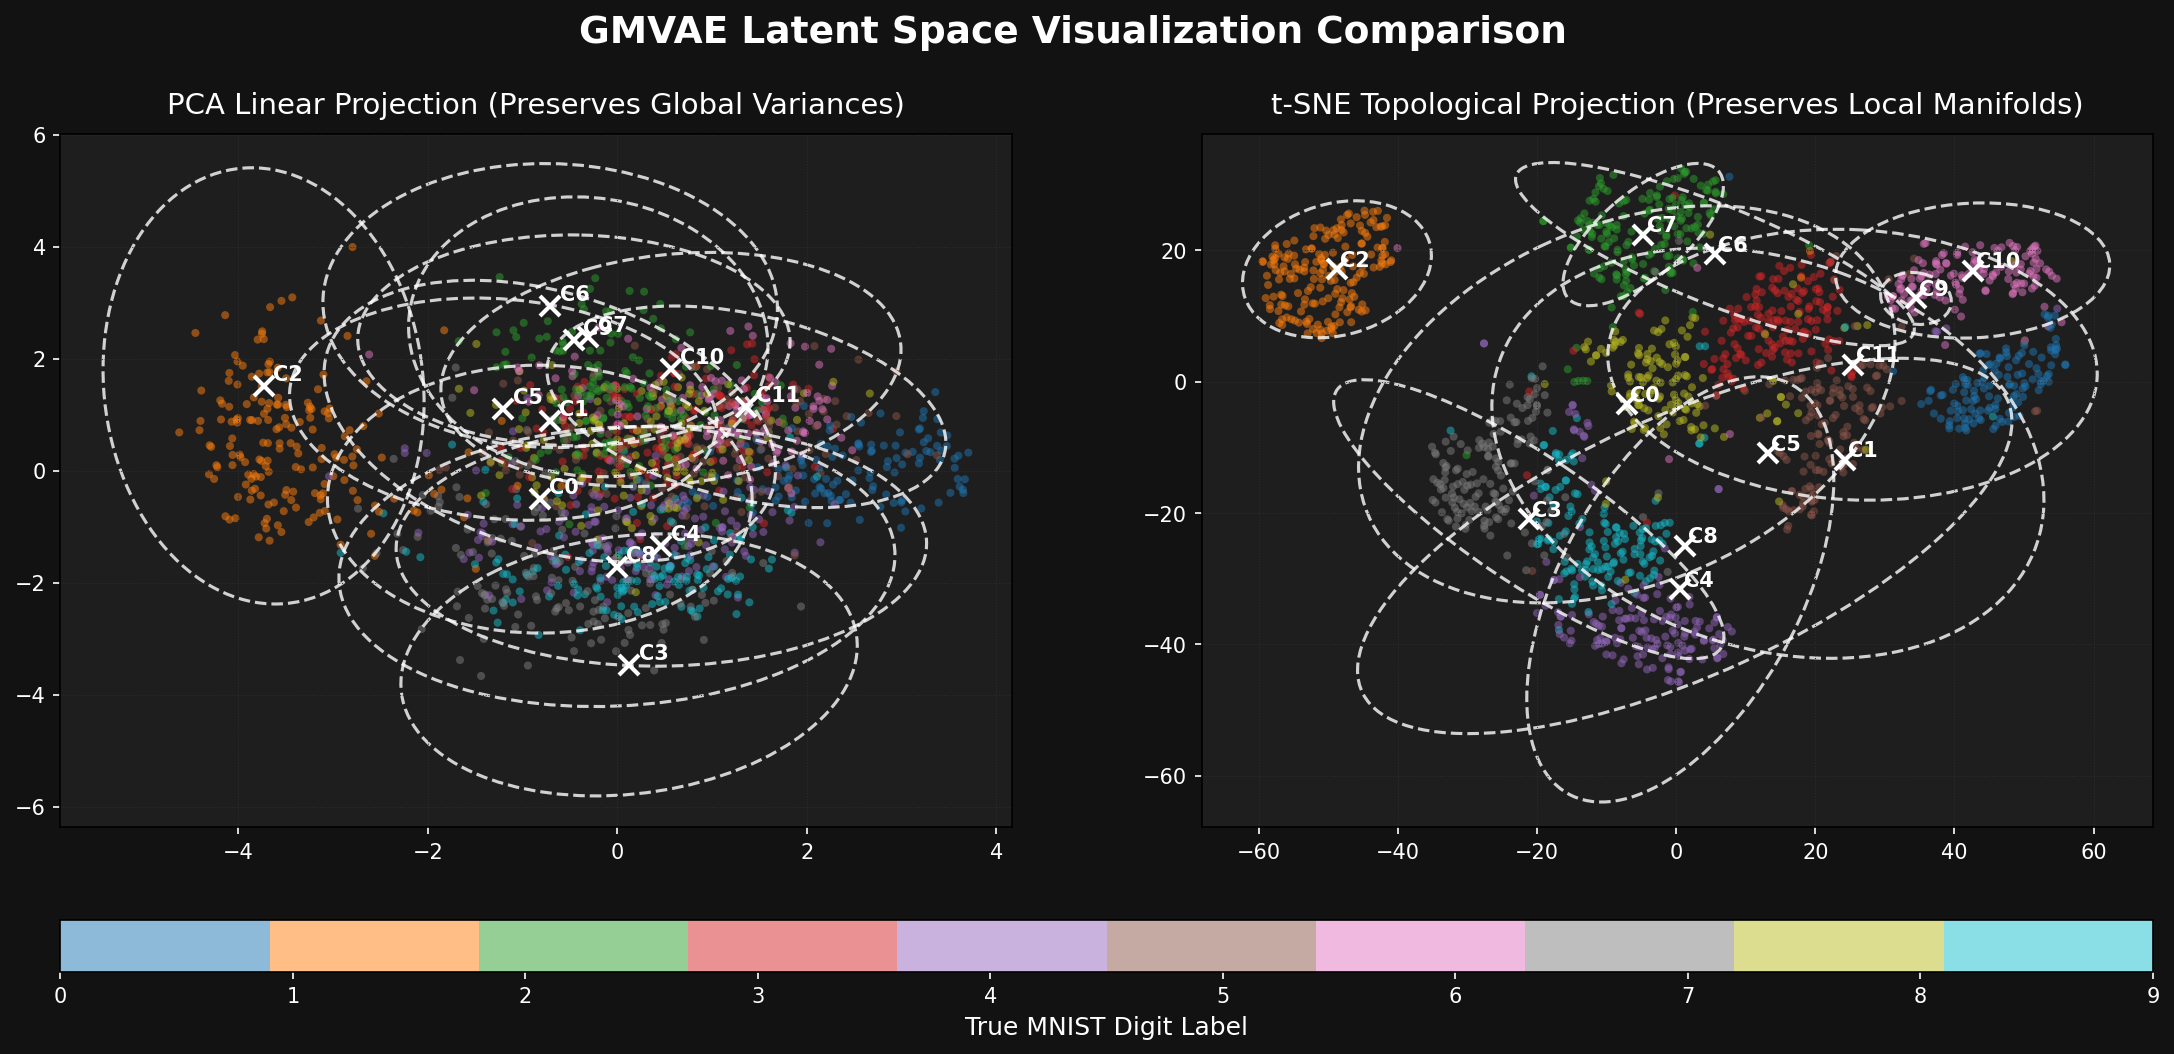
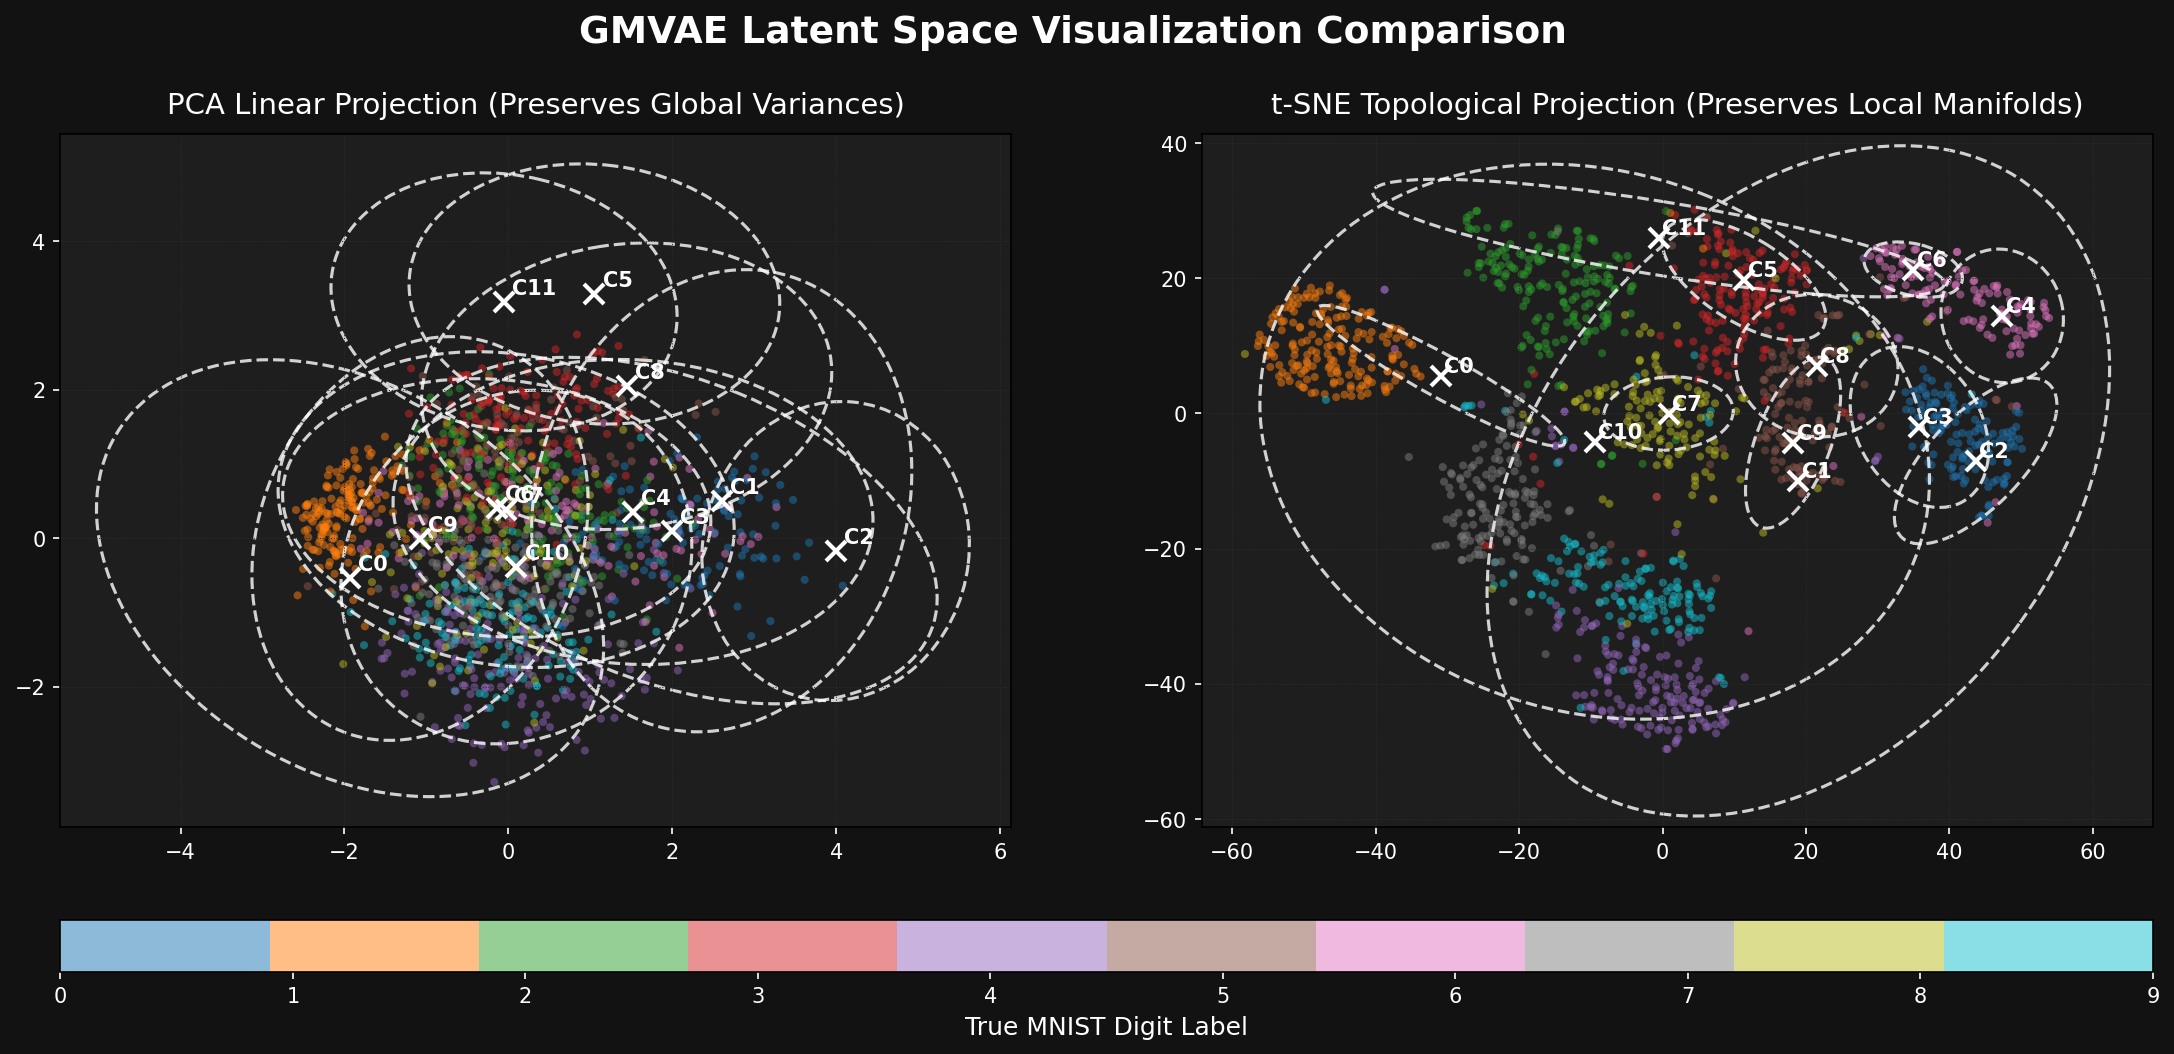
fix: all cluster labels shown in t-SNE plot, handle single-point clusters

diff --git a/animate_training.py b/animate_training.py
@@ -155,18 +155,27 @@ def get_plot_frame(model, test_loader, device, step, epoch, val_loss, allow_spaw
     scatter = ax.scatter(z_pts_2d[:, 0], z_pts_2d[:, 1], c=labels, cmap='tab10', s=5, alpha=0.5, edgecolors='none')
     
     # Draw GMM ellipses using empirical covariance of projected points in 2D
+    emp_means_list = {}
     for k in range(len(means)):
-        ax.plot(means_2d[k, 0], means_2d[k, 1], 'x', color='white', markersize=8, markeredgewidth=2)
-        
         cluster_points = z_pts_2d[predicted_clusters == k]
-        if len(cluster_points) > 1:
-            emp_mean = np.mean(cluster_points, axis=0)
-            emp_cov = np.cov(cluster_points.T)
-            eigenvalues, eigenvectors = np.linalg.eigh(emp_cov)
-            order = eigenvalues.argsort()[::-1]
-            eigenvalues, eigenvectors = eigenvalues[order], eigenvectors[:, order]
-            angle = np.degrees(np.arctan2(*eigenvectors[:, 0][::-1]))
-            width, height = 4 * np.sqrt(np.clip(eigenvalues, a_min=1e-8, a_max=None))
+        if len(cluster_points) >= 1:
+            if len(cluster_points) > 1:
+                emp_mean = np.mean(cluster_points, axis=0)
+                emp_means_list[k] = emp_mean
+                emp_cov = np.cov(cluster_points.T)
+                eigenvalues, eigenvectors = np.linalg.eigh(emp_cov)
+                order = eigenvalues.argsort()[::-1]
+                eigenvalues, eigenvectors = eigenvalues[order], eigenvectors[:, order]
+                angle = np.degrees(np.arctan2(*eigenvectors[:, 0][::-1]))
+                width, height = 4 * np.sqrt(np.clip(eigenvalues, a_min=1e-8, a_max=None))
+            else:
+                emp_mean = cluster_points[0]
+                emp_means_list[k] = emp_mean
+                angle = 0
+                width, height = 0.5, 0.5
+            
+            # Plot centroid marker at emp_mean
+            ax.plot(emp_mean[0], emp_mean[1], 'x', color='white', markersize=8, markeredgewidth=2)
             
             ellipse = Ellipse(
                 xy=(emp_mean[0], emp_mean[1]),
@@ -180,6 +189,9 @@ def get_plot_frame(model, test_loader, device, step, epoch, val_loss, allow_spaw
                 alpha=0.7
             )
             ax.add_patch(ellipse)
+        else:
+            emp_means_list[k] = means_2d[k]
+            ax.plot(means_2d[k, 0], means_2d[k, 1], 'x', color='white', markersize=8, markeredgewidth=2)
 
     # Decode and overlay digit predictions right above the GMM cluster centers!
     with torch.no_grad():
@@ -197,9 +209,12 @@ def get_plot_frame(model, test_loader, device, step, epoch, val_loss, allow_spaw
             rgba[:, :, 2] = 0.1  # Blue
             rgba[:, :, 3] = digit_img  # Alpha is pixel intensity
             
+            # Get empirical mean coordinates for this cluster
+            emp_mean = emp_means_list.get(k, means_2d[k])
+            
             im = OffsetImage(rgba, zoom=0.7)
-            # Offset the floating digit slightly above the center marker (means_2d[k, 1] + 0.5)
-            ab = AnnotationBbox(im, (means_2d[k, 0], means_2d[k, 1] + 0.5), xycoords='data', frameon=False)
+            # Offset the floating digit slightly above the center marker (emp_mean[1] + 0.5)
+            ab = AnnotationBbox(im, (emp_mean[0], emp_mean[1] + 0.5), xycoords='data', frameon=False)
             ax.add_artist(ab)
             
     status_str = "Spawning: Active" if allow_spawning else "Spawning: Frozen"

diff --git a/visualize_tsne.py b/visualize_tsne.py
@@ -134,21 +134,25 @@ def main():
     for k in range(best_K):
         # Calculate empirical 2D covariance of mapped points assigned to cluster k
         cluster_points = z_tsne[predicted_clusters == k]
-        if len(cluster_points) > 1:
-            # Empirical 2D mean and covariance
-            emp_mean = np.mean(cluster_points, axis=0)
-            emp_cov = np.cov(cluster_points.T)
-            
+        if len(cluster_points) >= 1:
+            if len(cluster_points) > 1:
+                emp_mean = np.mean(cluster_points, axis=0)
+                emp_cov = np.cov(cluster_points.T)
+                
+                # Eigendecomposition of empirical 2D covariance
+                eigenvalues, eigenvectors = np.linalg.eigh(emp_cov)
+                order = eigenvalues.argsort()[::-1]
+                eigenvalues, eigenvectors = eigenvalues[order], eigenvectors[:, order]
+                angle = np.degrees(np.arctan2(*eigenvectors[:, 0][::-1]))
+                width, height = 4 * np.sqrt(np.clip(eigenvalues, a_min=1e-8, a_max=None))
+            else:
+                emp_mean = cluster_points[0]
+                angle = 0
+                width, height = 0.5, 0.5
+                
             # Plot centroid marker and text at emp_mean
             ax2.plot(emp_mean[0], emp_mean[1], 'x', color='white', markersize=10, markeredgewidth=2)
             ax2.text(emp_mean[0] + 0.5, emp_mean[1] + 0.5, f"C{k}", color='white', fontsize=10, fontweight='bold')
-            
-            # Eigendecomposition of empirical 2D covariance
-            eigenvalues, eigenvectors = np.linalg.eigh(emp_cov)
-            order = eigenvalues.argsort()[::-1]
-            eigenvalues, eigenvectors = eigenvalues[order], eigenvectors[:, order]
-            angle = np.degrees(np.arctan2(*eigenvectors[:, 0][::-1]))
-            width, height = 4 * np.sqrt(np.clip(eigenvalues, a_min=1e-8, a_max=None))
             
             el2 = Ellipse(
                 xy=(emp_mean[0], emp_mean[1]),
